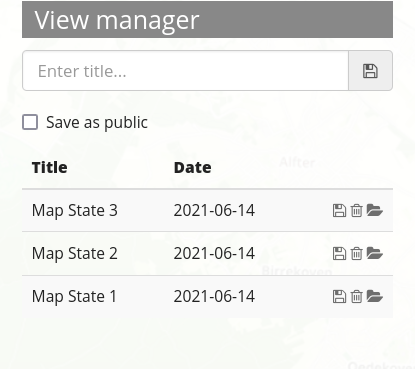
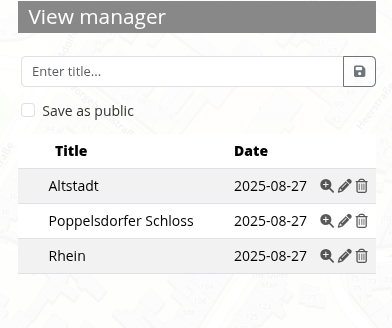
View manager: ViewId doku text&Screenshots added

diff --git a/de/elements/share/view_manager.rst b/de/elements/share/view_manager.rst
@@ -56,6 +56,21 @@ Konfiguration
 .. image:: ../../../figures/de/view_manager_configuration.png
      :scale: 70
 
+Kontrolle über URL-Parameter
+----------------------------
+
+.. image:: ../../../figures/de/view_manager_viewid.png
+     :scale: 70
+
+Mapbender bietet die Möglichkeit, verschiedene gespeicherte Ansichten mithilfe des ``viewid``-Parameters in der URL aufzurufen. Diese Funktion ermöglicht es Benutzern, schnell zwischen vordefinierten Ansichten der Kartenanwendung zu wechseln, wie im Screenshot gezeigt.
+
+Jede gespeicherte Ansicht erhält eine eindeutige ID, die verwendet werden kann, um die entsprechende Ansicht direkt zu laden. Zum Beispiel kann die Ansicht mit dem Titel "Poppelsdorfer Schloss" über den folgenden URL-Parameter aufgerufen werden:
+
+.. code-block:: php
+
+     ?viewid=1
+
+Durch das Anhängen dieses Parameters an die URL der Anwendung lädt Mapbender automatisch die gespeicherte Ansicht, die mit der angegebenen ID verknüpft ist.
 
 YAML-Definition
 ---------------

diff --git a/en/elements/share/view_manager.rst b/en/elements/share/view_manager.rst
@@ -55,6 +55,21 @@ Configuration
 .. image:: ../../../figures/view_manager_configuration.png
      :scale: 70
 
+Controlling URL parameters
+--------------------------
+
+.. image:: ../../../figures/view_manager_viewid.png
+     :scale: 70
+
+Mapbender provides the ability to call different saved views using the ``viewid`` parameter in the URL. This feature allows users to quickly switch between predefined views of the map application, as demonstrated in the screenshot.
+
+Each saved view is assigned a unique ID, which can be used to load the corresponding view directly. For example, the view titled "Poppelsdorfer Schloss" can be accessed using the following URL parameter:
+
+.. code-block:: php
+
+     ?viewid=1
+
+By appending this parameter to the application's URL, Mapbender will automatically load the saved view associated with the specified ID.
 
 YAML-Definition
 ---------------
